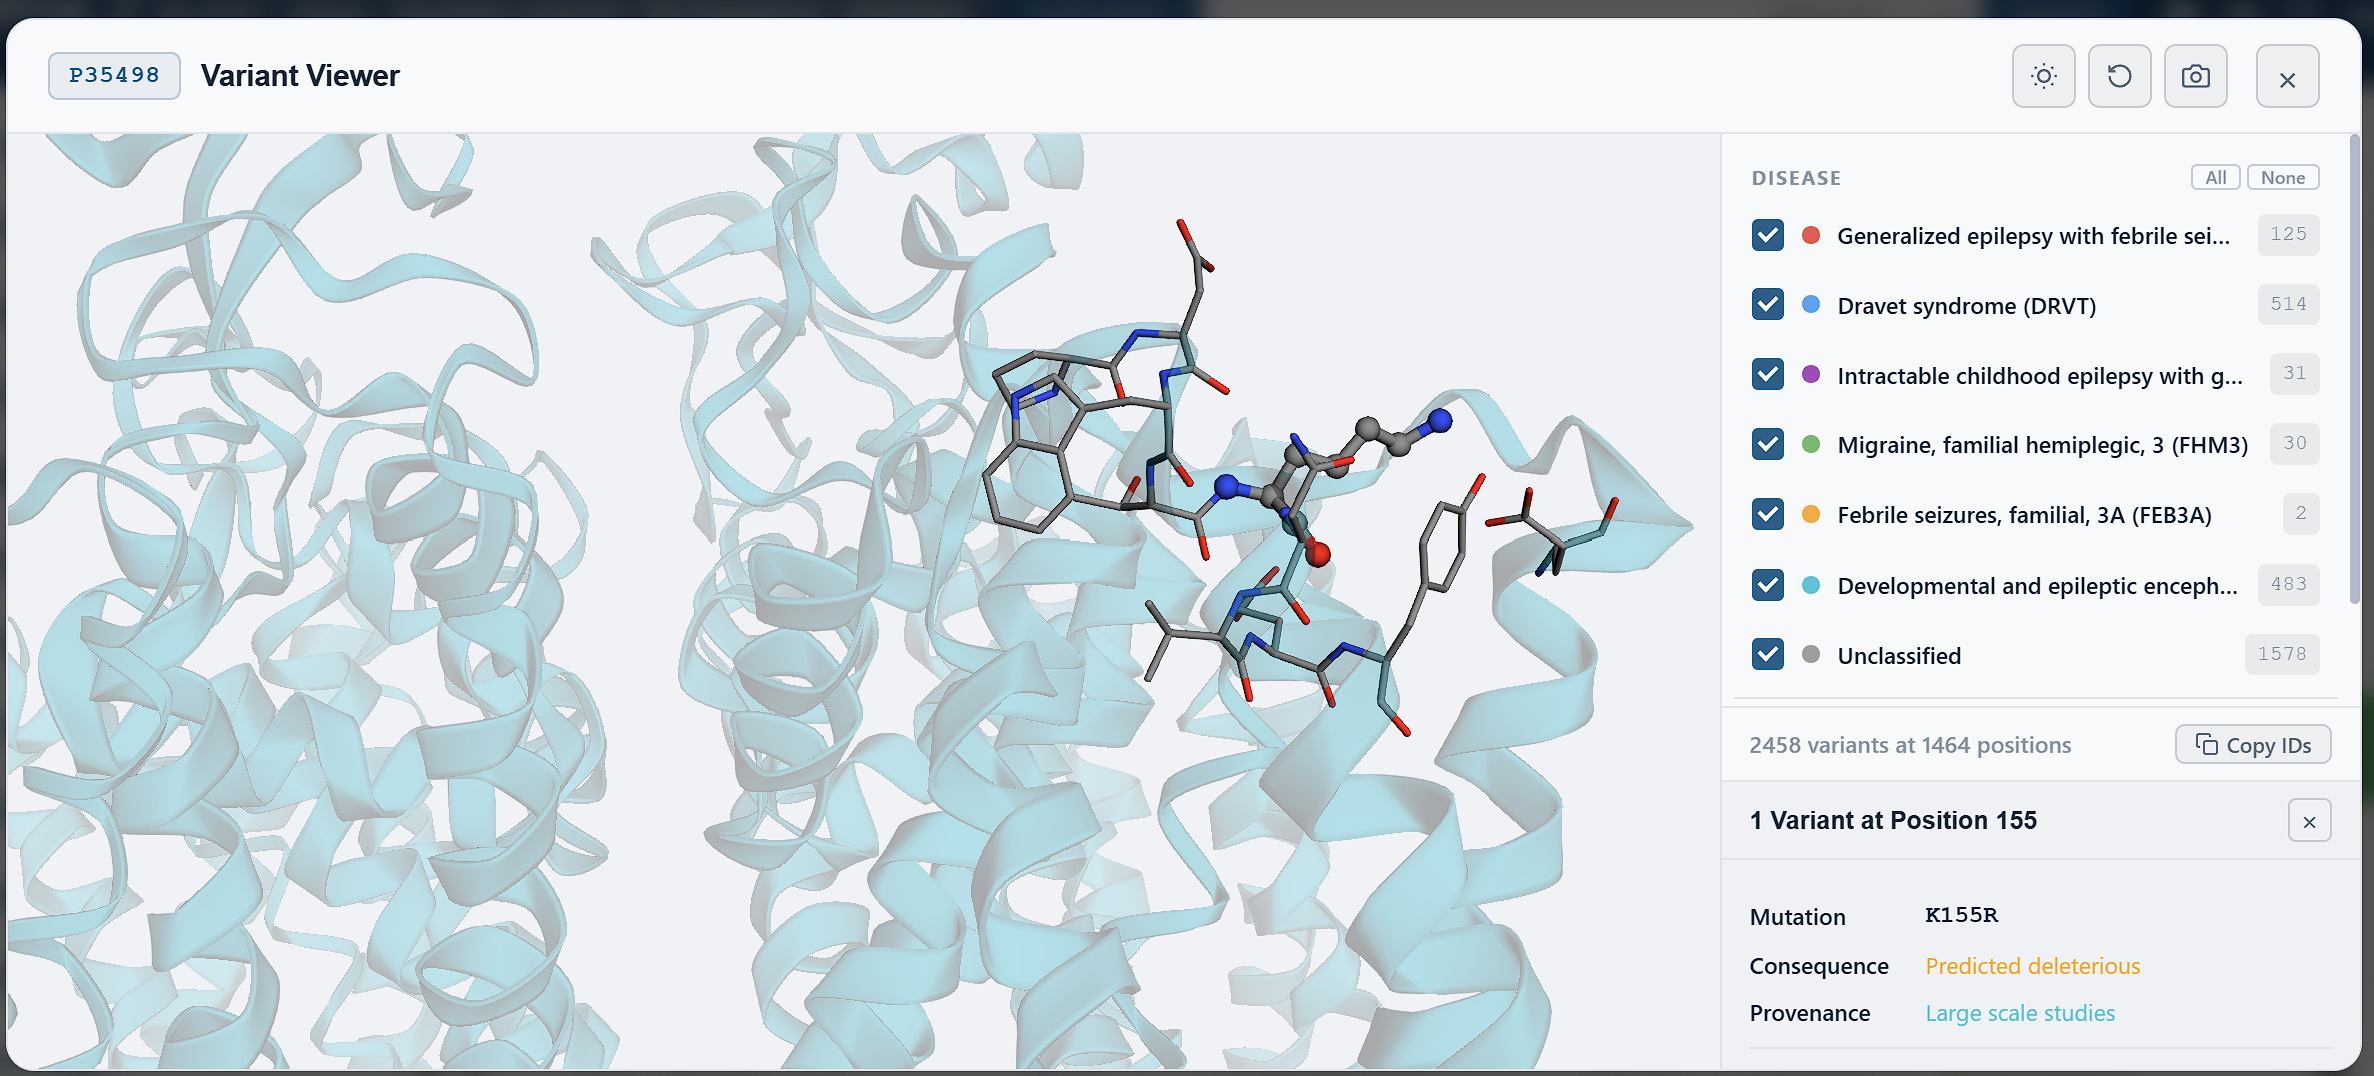
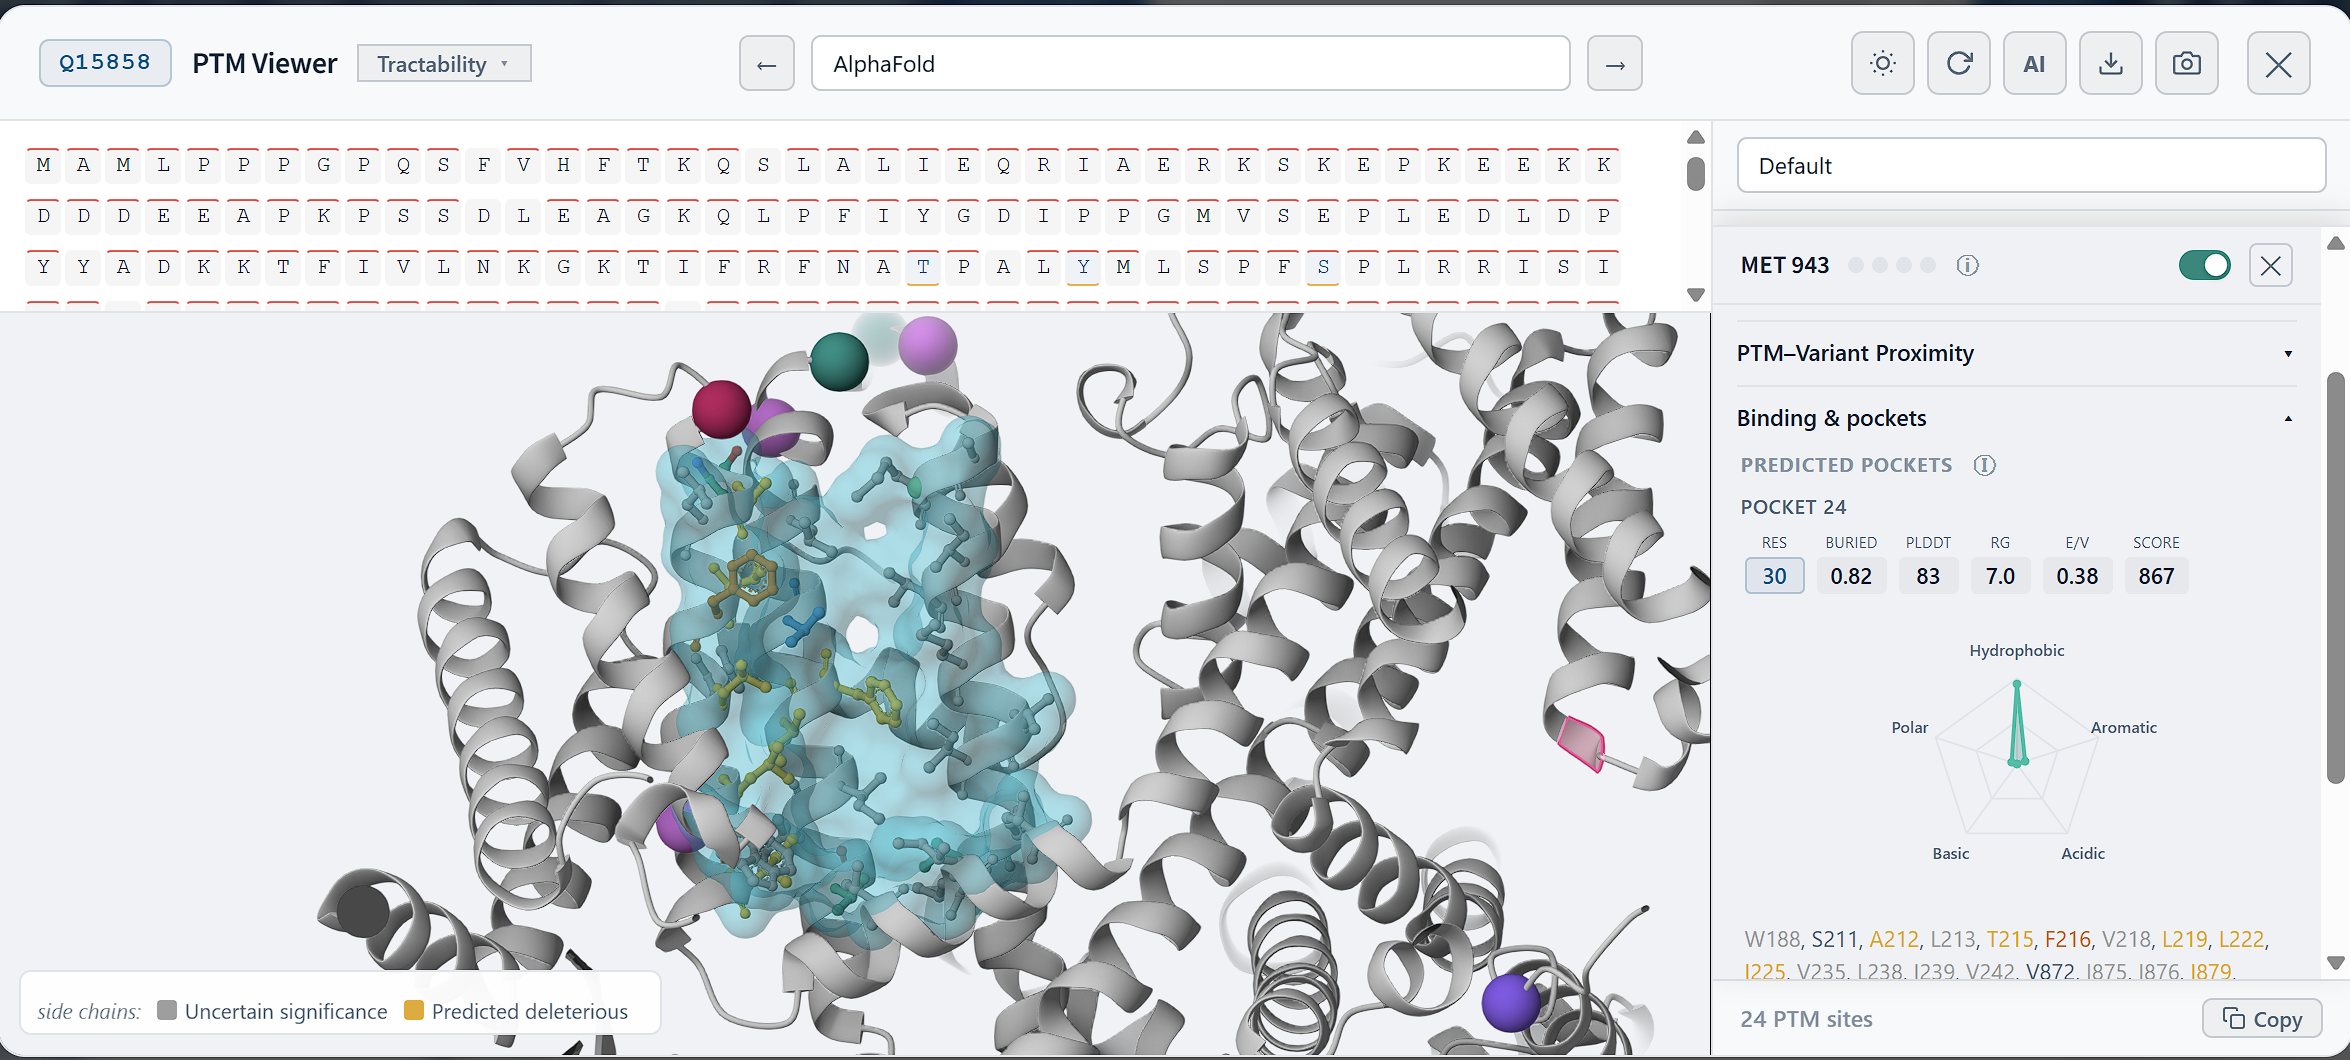
Repo cleanup, Firefox perf fix, exploratory algorithms toggle
- METHODS.md untracked (internal; referenced in paper, not user-facing)
- pymol-plugin and build-firefox.ps1 already removed; .gitignore updated
- README: new screenshot, removed PyMOL/VMD session export references, short clean changelog
- PRIVACY_POLICY: comprehensive rewrite — full API table, storage section, permissions table
- Options: add 'Show exploratory algorithms' toggle (hotspots, contact hubs, burden, constraint pockets)
  wired to showExploratoryAlgorithms setting in state.js / options.js / modal.js
- viewer-frame.js: detect Firefox and disable MSAA + AO/outline/shadow post-processing
  (Firefox WebGL2 driver is much slower for these; disabling restores interactive framerates)

diff --git a/viewer-frame.js b/viewer-frame.js
@@ -834,7 +834,25 @@
     // manualReset:true disables Mol*'s automatic camera fit on scene/bounds changes — so adding/removing the
     // focus rep, the green highlight sphere, or marker components never auto-zooms. OUR camFocus is then the
     // ONLY camera mover, which removes the "double zoom" (auto-fit + camFocus) on a residue/ligand focus.
-    try { viewer.plugin.canvas3d?.setProps({ camera: { mode: 'orthographic', manualReset: true, helper: { axes: { name: 'off', params: {} } } }, renderer: { backgroundColor: _bgColor }, pickPadding: 5 }); } catch (_) {}
+    const isFirefox = /Firefox\//.test(navigator.userAgent);
+    try {
+      const canvas3dProps = {
+        camera: { mode: 'orthographic', manualReset: true, helper: { axes: { name: 'off', params: {} } } },
+        renderer: { backgroundColor: _bgColor },
+        pickPadding: 5,
+      };
+      // Firefox's WebGL2 driver is significantly slower for MSAA and screen-space post-processing
+      // (ambient occlusion, outline, shadow). Disable them on Firefox to restore interactive framerates.
+      if (isFirefox) {
+        canvas3dProps.multiSample = { mode: 'off' };
+        canvas3dProps.postprocessing = {
+          occlusion: { name: 'off', params: {} },
+          outline:   { name: 'off', params: {} },
+          shadow:    { name: 'off', params: {} },
+        };
+      }
+      viewer.plugin.canvas3d?.setProps(canvas3dProps);
+    } catch (_) {}
     // SUPPRESS *all* of Mol*'s native click reactions so a click on the 3D structure does ONLY our
     // focusResidue — byte-for-byte the same code path as clicking a Nearby chip in the side panel (which
     // never sends a click into Mol* at all). Without this, a single primary click on the structure fires

diff --git a/modal.js b/modal.js
@@ -4045,13 +4045,19 @@ const UFVModal = (() => {
 
     function syncSettingsControls() {
         const s = UFVState.state;
+        const showExploratory = s.settings.showExploratoryAlgorithms ?? true;
+        // Show/hide the 4 exploratory algorithm color modes in the dropdown
+        const exploratoryModes = ['hotspots', 'distantContacts', 'residueBurden', 'prism'];
+        exploratoryModes.forEach(m => {
+            byId('ufv-cm-drop')?.querySelector(`.ufv-cm-opt[data-value="${m}"]`)
+                ?.classList.toggle('ufv-hidden', !showExploratory);
+        });
         let mode = s.settings.coloringMode;
-        if (mode === 'prism' || mode === 'topos') mode = 'default';
+        // If the saved mode is an exploratory one and exploratory is now off, fall back to default
+        if ((!showExploratory && exploratoryModes.includes(mode)) || mode === 'topos') mode = 'default';
         setColorMode(mode);
         byId('ufv-sens-wrap').classList.add('ufv-hidden');
-        // Apply configurable cutoffs to the live viewer
         StructureViewer.nearbyDistance = s.settings.nearbyDistance || 5;
-        // Font-size step (-1 / 0 / +1) — scales the text panels (side list + detail panel), not the 3-D view.
         const fs = s.settings.fontScale || 0;
         modalEl?.classList.toggle('ufv-fs-sm', fs < 0);
         modalEl?.classList.toggle('ufv-fs-lg', fs > 0);

diff --git a/options.html b/options.html
@@ -98,9 +98,13 @@
 
 <div class="section">
   <h2>Advanced</h2>
-  <div class="toggle-row">
+  <div class="toggle-row" style="margin-bottom:10px">
     <input type="checkbox" id="opt-optional">
     <label for="opt-optional">Show optional conservation / frequency tracks</label>
+  </div>
+  <div class="toggle-row">
+    <input type="checkbox" id="opt-exploratory">
+    <label for="opt-exploratory">Show exploratory residue-prioritization algorithms (hotspots, contact hubs, burden, constraint pockets)</label>
   </div>
 </div>
 

diff --git a/options.js b/options.js
@@ -6,6 +6,7 @@ const DEFAULTS = {
     coloringMode: 'default',
     copyFormat: 'pymol',
     showOptionalTracks: false,
+    showExploratoryAlgorithms: true,
     proxPtmRadius: 8,
     proxVarRadius: 12,
     fontScale: 0,
@@ -20,6 +21,7 @@ function loadOptions() {
         byId('opt-color').value = s.coloringMode;
         byId('opt-copy').value = s.copyFormat;
         byId('opt-optional').checked = s.showOptionalTracks;
+        byId('opt-exploratory').checked = s.showExploratoryAlgorithms ?? true;
         byId('opt-ptm-radius').value = s.proxPtmRadius;
         byId('opt-var-radius').value = s.proxVarRadius;
         byId('opt-font-scale').value = String(s.fontScale ?? 0);
@@ -41,6 +43,7 @@ function saveOptions() {
         coloringMode: byId('opt-color').value,
         copyFormat: byId('opt-copy').value,
         showOptionalTracks: byId('opt-optional').checked,
+        showExploratoryAlgorithms: byId('opt-exploratory').checked,
         proxPtmRadius: Number(byId('opt-ptm-radius').value) || 8,
         proxVarRadius: Number(byId('opt-var-radius').value) || 12,
         fontScale: Number(byId('opt-font-scale').value) || 0,

diff --git a/state.js b/state.js
@@ -8,6 +8,7 @@ const UFVState = (() => {
         showClinVar: true,
         showAlphaMissense: true,
         showOptionalTracks: false,
+        showExploratoryAlgorithms: true,
         nearbyDistance: 5,    // Å — residue focus neighbourhood radius
         proxPtmRadius: 8,    // Å — PTM search radius in proximity panel
         proxVarRadius: 12,   // Å — pathogenic variant search radius in proximity panel

diff --git a/PRIVACY_POLICY.md b/PRIVACY_POLICY.md
@@ -2,38 +2,71 @@
 
 > Last updated: June 2026
 
-This extension does **not** collect, store, or share any personal data.
+This extension does **not** collect, store, or share any personal data of any kind.
 
 ---
 
-## What We Access
+## How It Works
 
-To display protein structure and annotation data, the extension makes network requests to the following public APIs. All requests are read-only and contain no personal information:
-
-| Service | Purpose |
-|---|---|
-| [UniProt](https://www.uniprot.org) | Protein sequence, variants, PTMs, features |
-| [PDBe / EBI](https://www.ebi.ac.uk) | Experimental structures, residue mapping, binding sites |
-| [AlphaFold DB](https://alphafold.ebi.ac.uk) | Predicted structures and AlphaMissense scores |
-| [AlphaFill](https://alphafill.eu) | Transplanted ligand metadata |
-| [ProtVar](https://www.ebi.ac.uk/ProtVar) | Per-substitution effect predictions |
-| [Open Targets](https://platform.opentargets.org) | Drug tractability and clinical evidence |
-| [RCSB PDB](https://www.rcsb.org) | Structure files and motif search |
-| [PubChem](https://pubchem.ncbi.nlm.nih.gov) | Ligand descriptors and fingerprints |
-| [SWISS-MODEL](https://swissmodel.expasy.org) / [ModelArchive](https://www.modelarchive.org) | Comparative and computed models |
+The extension operates entirely within your browser. When you open a UniProt entry page, it reads the page URL to identify the protein accession, then fetches publicly available scientific data from external APIs to populate the 3D viewer and annotation panels. No information about you, your searches, or your browser is included in any of these requests.
 
 ---
 
-## What We Do NOT Do
+## External Services Accessed
+
+All network requests are read-only calls to public scientific APIs. The requests contain only the protein accession or structure identifier needed to retrieve data — no user identifiers, IP addresses (beyond those inherent to any web request), or browsing history.
+
+| Service | Data Retrieved | Privacy Policy |
+|---|---|---|
+| [UniProt](https://www.uniprot.org) | Protein sequence, variants, PTMs, functional features | [uniprot.org/help/privacy](https://www.uniprot.org/help/privacy) |
+| [PDBe / EBI](https://www.ebi.ac.uk) | Experimental structures, residue mapping, binding sites, PDBe-KB annotations | [ebi.ac.uk/data-protection](https://www.ebi.ac.uk/data-protection/privacy-notice/web-services) |
+| [AlphaFold DB](https://alphafold.ebi.ac.uk) | Predicted protein structures and AlphaMissense scores | [ebi.ac.uk/data-protection](https://www.ebi.ac.uk/data-protection/privacy-notice/alphafold) |
+| [AlphaFill](https://alphafill.eu) | Transplanted ligand metadata for AlphaFold models | [alphafill.eu](https://alphafill.eu) |
+| [ProtVar](https://www.ebi.ac.uk/ProtVar) | Per-substitution effect predictions (EVE, ESM1b, FoldX, CADD, conservation) | [ebi.ac.uk/data-protection](https://www.ebi.ac.uk/data-protection) |
+| [Open Targets Platform](https://platform.opentargets.org) | Drug tractability and clinical evidence | [platform.opentargets.org/privacy-policy](https://platform.opentargets.org/privacy-policy) |
+| [RCSB PDB](https://www.rcsb.org) | Structure coordinate files and structural motif search | [rcsb.org/pages/privacy-policy](https://www.rcsb.org/pages/privacy-policy) |
+| [PubChem](https://pubchem.ncbi.nlm.nih.gov) | Ligand chemical descriptors and fingerprints | [ncbi.nlm.nih.gov/home/about/policies](https://www.ncbi.nlm.nih.gov/home/about/policies) |
+| [SWISS-MODEL](https://swissmodel.expasy.org) | Comparative homology models | [swissmodel.expasy.org/privacy-policy](https://swissmodel.expasy.org/privacy-policy) |
+| [ModelArchive](https://www.modelarchive.org) | Deposited computed models | [modelarchive.org](https://www.modelarchive.org) |
+
+---
+
+## Local Data Storage
+
+The extension uses `chrome.storage.local` (or `localStorage` as a fallback) exclusively to store your **settings** (default structure preference, color mode, search radii, font scale). This data:
+
+- Never leaves your device
+- Contains no personal information
+- Can be cleared at any time via your browser's extension management page
+
+No session data, viewed proteins, residue selections, or analysis results are persisted between sessions.
+
+---
+
+## What This Extension Does NOT Do
 
 - Collect any personal or identifying information
-- Track browsing history or activity
-- Store data beyond the current browser session
+- Track which proteins you view or which residues you click
+- Store data beyond your settings preferences
 - Share, sell, or transmit any data to third parties
-- Use cookies or analytics
+- Use cookies, analytics, or telemetry of any kind
+- Make requests to any server operated by this extension (there is no backend)
+
+---
+
+## Browser Permissions
+
+The extension requests the following permissions:
+
+| Permission | Why |
+|---|---|
+| `storage` | Save your settings (structure preference, color mode, etc.) locally |
+| Host permissions for listed scientific APIs | Fetch protein and structure data from those services |
+
+No other permissions are requested or used.
 
 ---
 
 ## Contact
 
-Open an issue on [GitHub](https://github.com/aminkvh/3D-Feature-Viewer-for-UniProt/issues).
+If you have questions or concerns, please open an issue on [GitHub](https://github.com/aminkvh/3D-Feature-Viewer-for-UniProt/issues).

diff --git a/README.md b/README.md
@@ -2,7 +2,7 @@
 
 A browser extension that brings structural protein interpretation directly into UniProt. It adds an interactive 3D workspace to UniProt entry pages so you can inspect post-translational modifications, variants, clinical annotations, prediction scores, and residue-prioritization overlays without leaving UniProt.
 
-![UniProt 3D Viewer Screenshot](/icons/Screenshot.png)
+![UniProt 3D Viewer Screenshot](icons/Screenshot.png)
 
 ## Features
 
@@ -10,10 +10,10 @@ A browser extension that brings structural protein interpretation directly into 
 - Switch between AlphaFold models and mapped experimental PDB structures.
 - Per-residue predictor table: EVE, ESM1b, FoldX ΔΔG, conservation, and CADD scores via ProtVar.
 - Binding pocket analysis: PDBe-KB known sites, constraint pocket detection, and pocket confidence scoring.
-- Open Targets tractability and drug evidence per residue.
+- Open Targets tractability and drug evidence per protein.
 - Color overlays for pLDDT, AlphaMissense, enrichment hotspots, long-range contact hubs, and mutation burden.
 - Ligand similarity by CACTVS/Tanimoto fingerprint against AlphaFill transplants.
-- Export residue sets and sessions for PyMOL, VMD, spreadsheets, or ML pipelines.
+- Export residue sets and annotation data to CSV.
 
 ## Install
 
@@ -27,14 +27,14 @@ A browser extension that brings structural protein interpretation directly into 
 **Chrome:**
 1. Open `chrome://extensions/`
 2. Enable **Developer mode** (top-right toggle)
-3. Click **Load unpacked** and select the unzipped `chrome-extension-v2.0.0/` folder
+3. Click **Load unpacked** and select the unzipped folder
 
 **Firefox:**
 1. Open `about:debugging#/runtime/this-firefox`
 2. Click **Load Temporary Add-on**
-3. Select the `manifest.json` file inside the unzipped `firefox-extension-v2.0.0/` folder
+3. Select the `manifest.json` file inside the unzipped folder
 
-> Firefox temporary add-ons are removed on browser restart. For persistent installation, submit to [Mozilla Add-ons](https://addons.mozilla.org) or use a signed `.xpi`.
+> Firefox temporary add-ons are removed on browser restart. For a persistent install on Firefox, use a signed `.xpi` or install via [Mozilla Add-ons](https://addons.mozilla.org).
 
 ### Build from source
 
@@ -44,7 +44,7 @@ cd 3D-Feature-Viewer-for-UniProt
 pwsh ./build-all.ps1
 ```
 
-This produces `chrome-build/` and `firefox-build/` ready to load as unpacked extensions, plus `.zip` files for distribution.
+Produces `chrome-build/` and `firefox-build/` ready to load as unpacked extensions, plus `.zip` release packages.
 
 ## Quick Start
 
@@ -58,23 +58,17 @@ This produces `chrome-build/` and `firefox-build/` ready to load as unpacked ext
 
 ### v2.0.0
 - **3D viewer migrated to Mol\*** — WebGL2 rendering via a sandboxed iframe; smoother interaction on large and multi-chain structures
-- **Per-residue predictor table** — EVE, ESM1b, FoldX ΔΔG, conservation, and CADD scores sourced from ProtVar at the per-substitution level
-- **Binding pocket analysis** — PDBe-KB known binding sites, constraint pocket heuristic (UFVPocket), and mean pocket pLDDT confidence
-- **Open Targets tractability** — drug tractability and clinical evidence per protein, shown in the residue report
-- **Ligand panel improvements** — AlphaFill transplant metadata, Tanimoto similarity display, and direct PubChem links
-- **PyMOL and VMD session export** with full feature parity (all layers, color modes, hotspots, pockets)
-- **Chrome (MV3) + Firefox (MV2) build** — separate manifests with a single `build-all.ps1` producing both packages
+- **Per-residue predictor table** — EVE, ESM1b, FoldX ΔΔG, conservation, and CADD scores sourced from ProtVar
+- **Binding pocket analysis** — PDBe-KB known binding sites, constraint pocket heuristic, and pocket confidence scoring
+- **Open Targets tractability** — drug tractability and clinical evidence per protein
+- **Ligand panel** — AlphaFill transplant metadata, Tanimoto similarity, and direct PubChem links
+- **Chrome (MV3) + Firefox (MV2)** — separate manifests with a single `build-all.ps1` producing both packages
 
 ### v1.7.3
 - Functional Features and Family & Domains windows
 - Streaming structure load: AlphaFold model loads immediately, experimental/isoform/computed discovery streams behind it
 - Full isoform AlphaFold support with correct annotation mapping
-- PyMOL/VMD session export added to Download menu
 - Ligand similarity by CACTVS fingerprint (Tanimoto vs PubChem)
-
-## Residue-Prioritization Algorithms
-
-See [METHODS.md](METHODS.md) for a detailed description of all four algorithms: pathogenic-variant enrichment hotspots, long-range contact hubs, mutation/phenotype burden, and AlphaMissense residue scores.
 
 ## Data and Privacy
 